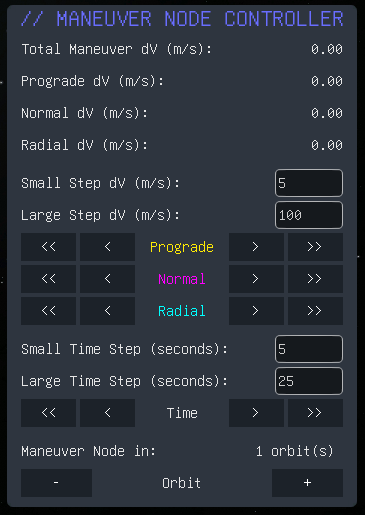
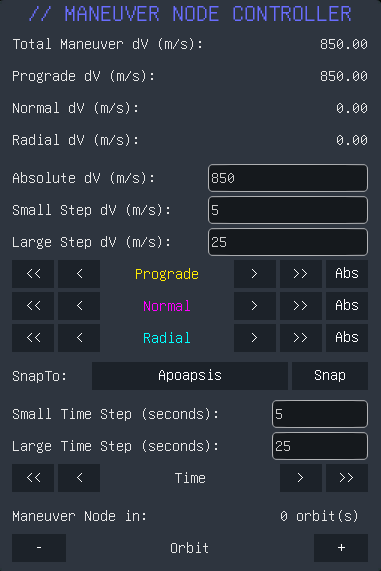
+ adding option to set absolute dV for the burn vectors + adding option to snap maneuverNode to Apoapsis or Periapsis

diff --git a/ManeuverNodeController/ManeuverNodeControllerMod.cs b/ManeuverNodeController/ManeuverNodeControllerMod.cs
@@ -14,7 +14,7 @@ using KSP.UI.Binding;
 namespace ManeuverNodeController
 {
     [BepInDependency(SpaceWarpPlugin.ModGuid, SpaceWarpPlugin.ModVer)]
-    [BepInPlugin("com.github.xyz3211.maneuvernodecontroller", "Maneuver Node Controller", "0.04")]
+    [BepInPlugin("com.github.xyz3211.maneuvernodecontroller", "Maneuver Node Controller", "0.5.0")]
     public class ManeuverNodeControllerMod : BaseSpaceWarpPlugin
     {
         private static ManeuverNodeControllerMod Instance { get; set; }
@@ -28,14 +28,28 @@ namespace ManeuverNodeController
         private string progradeString = "0";
         private string normalString = "0";
         private string radialString = "0";
+        private string absoluteValueString = "0";
         private string smallStepString = "5";
-        private string bigStepString = "100";
+        private string bigStepString = "25";
         private string timeSmallStepString = "5";
         private string timeLargeStepString = "25";
-        private double smallStep, bigStep, timeSmallStep, timeLargeStep;
+        private double absoluteValue, smallStep, bigStep, timeSmallStep, timeLargeStep;
 
-        private bool pInc1, pInc2, pDec1, pDec2, nInc1, nInc2, nDec1, nDec2, rInc1, rInc2, rDec1, rDec2, timeInc1, timeInc2, timeDec1, timeDec2, orbitInc, orbitDec;
+        private bool pAbs, pInc1, pInc2, pDec1, pDec2, nAbs, nInc1, nInc2, nDec1, nDec2, rAbs, rInc1, rInc2, rDec1, rDec2, timeInc1, timeInc2, timeDec1, timeDec2, orbitInc, orbitDec;
         private bool advancedMode;
+
+        // SnapTo selection.
+        private enum SnapOptions
+        {
+            Apoapsis,
+            Periapsis
+        }
+
+        private SnapOptions selectedSnapOption = SnapOptions.Apoapsis;
+        //private readonly List<string> snapOptions = new List<string> { "Apoapsis", "Periapsis" };
+        private bool selectingSnapOption = false;
+        private static Vector2 scrollPositionSnapOptions;
+        private bool applySnapOption;
 
         private ManeuverNodeData currentNode = null;
         List<ManeuverNodeData> activeNodes;
@@ -64,10 +78,10 @@ namespace ManeuverNodeController
                 ToggleButton);
         }
 
-        void ToggleButton(bool toggle)
+        private void ToggleButton(bool toggle)
         {
             interfaceEnabled = toggle;
-            GameObject.Find("BTN-MNC")?.GetComponent<UIValue_WriteBool_Toggle>()?.SetValue(toggle);
+            GameObject.Find("BTN-ManeuverNodeController")?.GetComponent<UIValue_WriteBool_Toggle>()?.SetValue(toggle);
         }
 
         void Awake()
@@ -205,6 +219,14 @@ namespace ManeuverNodeController
 
         private void drawSimpleMode()
         {
+
+
+            GUILayout.BeginHorizontal();
+            GUILayout.Label("Absolute dV (m/s): ", GUILayout.Width(windowWidth / 2));
+            absoluteValueString = GUILayout.TextField(absoluteValueString);
+            double.TryParse(absoluteValueString, out absoluteValue);
+            GUILayout.EndHorizontal();
+
             GUILayout.BeginHorizontal();
             GUILayout.Label("Small Step dV (m/s): ", GUILayout.Width(windowWidth / 2));
             smallStepString = GUILayout.TextField(smallStepString);
@@ -225,6 +247,7 @@ namespace ManeuverNodeController
             GUILayout.FlexibleSpace();
             pInc1 = GUILayout.Button(">", GUILayout.Width(windowWidth / 9));
             pInc2 = GUILayout.Button(">>", GUILayout.Width(windowWidth / 9));
+            pAbs = GUILayout.Button("Abs", GUILayout.Width(windowWidth / 9));
             GUILayout.EndHorizontal();
 
             GUILayout.BeginHorizontal();
@@ -235,6 +258,7 @@ namespace ManeuverNodeController
             GUILayout.FlexibleSpace();
             nInc1 = GUILayout.Button(">", GUILayout.Width(windowWidth / 9));
             nInc2 = GUILayout.Button(">>", GUILayout.Width(windowWidth / 9));
+            nAbs = GUILayout.Button("Abs", GUILayout.Width(windowWidth / 9));
             GUILayout.EndHorizontal();
 
             GUILayout.BeginHorizontal();
@@ -245,7 +269,12 @@ namespace ManeuverNodeController
             GUILayout.FlexibleSpace();
             rInc1 = GUILayout.Button(">", GUILayout.Width(windowWidth / 9));
             rInc2 = GUILayout.Button(">>", GUILayout.Width(windowWidth / 9));
+            rAbs = GUILayout.Button("Abs", GUILayout.Width(windowWidth / 9));
             GUILayout.EndHorizontal();
+
+            GUILayout.Box("", horizontalDivider);
+
+            SnapSelectionGUI();
 
             GUILayout.Box("", horizontalDivider);
 
@@ -290,93 +319,145 @@ namespace ManeuverNodeController
             handleButtons();
         }
 
-        private void handleButtons()
+        // Draws the snap selection GUI.
+        private void SnapSelectionGUI()
         {
-            if (pInc1 || pInc2 || pDec1 || pDec2 || nInc1 || nInc2 || nDec1 || nDec2 || rInc1 || rInc2 || rDec1 || rDec2 || timeDec1 || timeDec2 || timeInc1 || timeInc2 || orbitDec || orbitInc)
+            GUILayout.BeginHorizontal();
+            GUILayout.Label("SnapTo: ", GUILayout.Width(windowWidth / 5));
+            if (!selectingSnapOption)
             {
-                if (currentNode != null)
-                {
-                    burnParams = Vector3d.zero;
-                    if (pInc1)
-                    {
-                        burnParams.z += smallStep;
-                    }
-                    else if (pInc2)
-                    {
-                        burnParams.z += bigStep;
-                    }
-                    else if (nInc1)
-                    {
-                        burnParams.y += smallStep;
-                    }
-                    else if (nInc2)
-                    {
-                        burnParams.y += bigStep;
-                    }
-                    else if (rInc1)
-                    {
-                        burnParams.x += smallStep;
-                    }
-                    else if (rInc2)
-                    {
-                        burnParams.x += bigStep;
-                    }
-                    else if (pDec1)
-                    {
-                        burnParams.z -= smallStep;
-                    }
-                    else if (pDec2)
-                    {
-                        burnParams.z -= bigStep;
-                    }
-                    else if (nDec1)
-                    {
-                        burnParams.y -= smallStep;
-                    }
-                    else if (nDec2)
-                    {
-                        burnParams.y -= bigStep;
-                    }
-                    else if (rDec1)
-                    {
-                        burnParams.x -= smallStep;
-                    }
-                    else if (rDec2)
-                    {
-                        burnParams.x -= bigStep;
-                    }
-                    else if (timeDec1)
-                    {
-                        currentNode.Time -= timeSmallStep;
-                    }
-                    else if (timeDec2)
-                    {
-                        currentNode.Time -= timeLargeStep;
-                    }
-                    else if (timeInc1)
-                    {
-                        currentNode.Time += timeSmallStep;
-                    }
-                    else if (timeInc2)
-                    {
-                        currentNode.Time += timeLargeStep;
-                    }
-                    else if (orbitDec)
-                    {
-                        if (game.UniverseModel.FindVesselComponent(currentNode.RelatedSimID).Orbit.period < (currentNode.Time- game.UniverseModel.UniversalTime))
-                        {
-                            currentNode.Time -= game.UniverseModel.FindVesselComponent(currentNode.RelatedSimID).Orbit.period;
-                        }
-                    }
-                    else if (orbitInc)
-                    {
-                        currentNode.Time += game.UniverseModel.FindVesselComponent(currentNode.RelatedSimID).Orbit.period;
-                    }
+            if (GUILayout.Button(Enum.GetName(typeof(SnapOptions), selectedSnapOption)))
+                selectingSnapOption = true;
+            }
+            else
+            {
+            GUILayout.BeginVertical(GUI.skin.GetStyle("Box"));
+            scrollPositionSnapOptions = GUILayout.BeginScrollView(scrollPositionSnapOptions, false, true, GUILayout.Height(70));
 
-                    game.UniverseModel.FindVesselComponent(currentNode.RelatedSimID)?.SimulationObject.FindComponent<ManeuverPlanComponent>().UpdateChangeOnNode(currentNode, burnParams);
-                    game.UniverseModel.FindVesselComponent(currentNode.RelatedSimID)?.SimulationObject.FindComponent<ManeuverPlanComponent>().RefreshManeuverNodeState(0);
+            foreach (string snapOption in Enum.GetNames(typeof(SnapOptions)).ToList())
+            {
+                if (GUILayout.Button(snapOption))
+                {
+                    Enum.TryParse(snapOption, out selectedSnapOption);
+                    selectingSnapOption = false;
                 }
             }
+
+            GUILayout.EndScrollView();
+            GUILayout.EndVertical();
+            }
+
+            applySnapOption = GUILayout.Button("Snap", GUILayout.Width(windowWidth / 5));
+            GUILayout.EndHorizontal();
         }
-    }
+
+        private void handleButtons()
+        {
+            if (currentNode == null)
+                return;
+
+            if (pAbs || pInc1 || pInc2 || pDec1 || pDec2 || nAbs || nInc1 || nInc2 || nDec1 || nDec2 || rAbs || rInc1 || rInc2 || rDec1 || rDec2 || timeDec1 || timeDec2 || timeInc1 || timeInc2 || orbitDec || orbitInc || applySnapOption)
+            {
+                burnParams = Vector3d.zero;
+
+                if(pAbs)
+                {
+                    currentNode.BurnVector.z = absoluteValue;
+                }
+                else if (pInc1)
+                {
+                    burnParams.z += smallStep;
+                }
+                else if (pInc2)
+                {
+                    burnParams.z += bigStep;
+                }
+                else if (nAbs)
+                {
+                    currentNode.BurnVector.y = absoluteValue;
+                }
+                else if (nInc1)
+                {
+                    burnParams.y += smallStep;
+                }
+                else if (nInc2)
+                {
+                    burnParams.y += bigStep;
+                }
+                else if (rAbs)
+                {
+                    currentNode.BurnVector.x = absoluteValue;
+                }
+                else if (rInc1)
+                {
+                    burnParams.x += smallStep;
+                }
+                else if (rInc2)
+                {
+                    burnParams.x += bigStep;
+                }
+                else if (pDec1)
+                {
+                    burnParams.z -= smallStep;
+                }
+                else if (pDec2)
+                {
+                    burnParams.z -= bigStep;
+                }
+                else if (nDec1)
+                {
+                    burnParams.y -= smallStep;
+                }
+                else if (nDec2)
+                {
+                    burnParams.y -= bigStep;
+                }
+                else if (rDec1)
+                {
+                    burnParams.x -= smallStep;
+                }
+                else if (rDec2)
+                {
+                    burnParams.x -= bigStep;
+                }
+                else if (timeDec1)
+                {
+                    currentNode.Time -= timeSmallStep;
+                }
+                else if (timeDec2)
+                {
+                    currentNode.Time -= timeLargeStep;
+                }
+                else if (timeInc1)
+                {
+                    currentNode.Time += timeSmallStep;
+                }
+                else if (timeInc2)
+                {
+                    currentNode.Time += timeLargeStep;
+                }
+                else if (orbitDec)
+                {
+                    if (game.UniverseModel.FindVesselComponent(currentNode.RelatedSimID).Orbit.period < (currentNode.Time- game.UniverseModel.UniversalTime))
+                    {
+                        currentNode.Time -= game.UniverseModel.FindVesselComponent(currentNode.RelatedSimID).Orbit.period;
+                    }
+                }
+                else if (orbitInc)
+                {
+                    currentNode.Time += game.UniverseModel.FindVesselComponent(currentNode.RelatedSimID).Orbit.period;
+                }
+                else if(applySnapOption)    //apply selected snap option
+                {
+                    if (selectedSnapOption == SnapOptions.Apoapsis)
+                        currentNode.Time = game.UniverseModel.UniversalTime + game.UniverseModel.FindVesselComponent(currentNode.RelatedSimID).Orbit.TimeToAp;
+                    else if (selectedSnapOption == SnapOptions.Periapsis)
+                        currentNode.Time = game.UniverseModel.UniversalTime + game.UniverseModel.FindVesselComponent(currentNode.RelatedSimID).Orbit.TimeToPe;
+                }
+
+                game.UniverseModel.FindVesselComponent(currentNode.RelatedSimID)?.SimulationObject.FindComponent<ManeuverPlanComponent>().UpdateChangeOnNode(currentNode, burnParams);
+                game.UniverseModel.FindVesselComponent(currentNode.RelatedSimID)?.SimulationObject.FindComponent<ManeuverPlanComponent>().RefreshManeuverNodeState(0);
+            }
+        }
+    }   
 }
